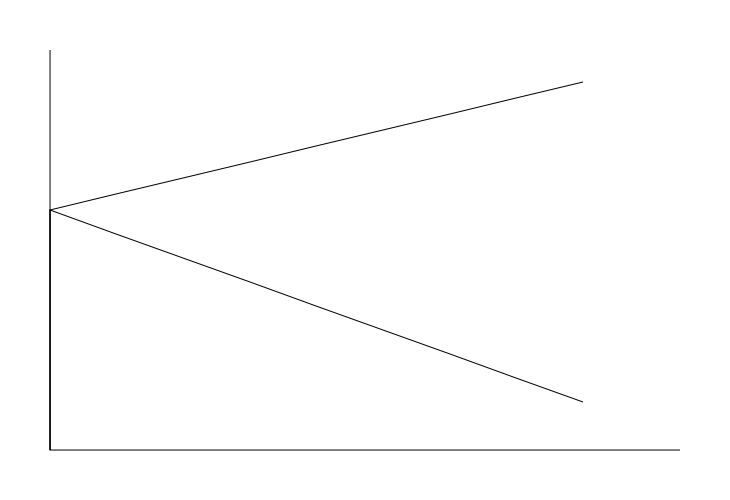
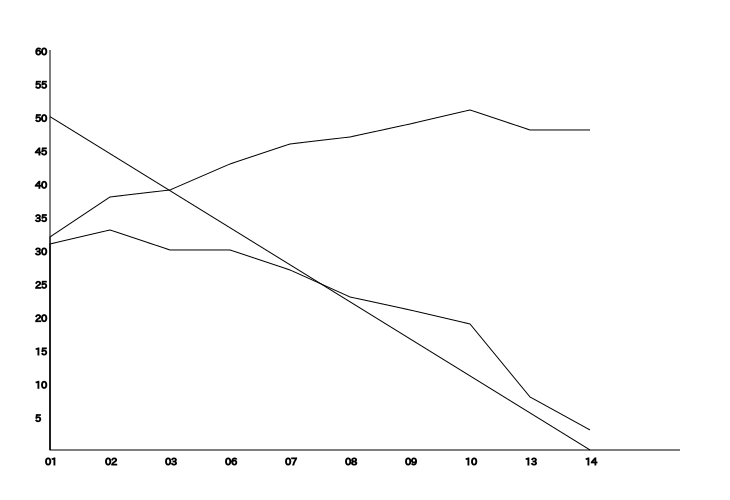
90percent

diff --git a/app.js b/app.js
@@ -10,12 +10,16 @@ var express = require('express')
   , schedule = require('node-schedule')
   , ircc    = require('irc')
   , un      = require('underscore')
+  , unstring = require('underscore.string')
+  , req     = require('request')
+  , htmlparser = require("htmlparser")
+  , jsdom = require('jsdom')
 //  , check  = require('./lib/check.js')
-
-var irc = new ircc.Client('irc.dollyfish.net.nz', 'myNick', {
-    channels: ['#blah']
+/*
+var irc = new ircc.Client('ant.rgk.ricoh.co.jp', 'yan_test', {
+    channels: ['#test_yan']
 });
-
+*/
 var app = module.exports = express.createServer();
 
 var mongoUri = 'http://127.0.0.1:27017/canvaspng';
@@ -48,13 +52,14 @@ var Schema = mongoose.Schema;
 var timelineschema = new Schema({
                          name : String
                        , max  : Number
-                       , date : String 
+                       , date : [String]
+                       , ms   : String
 });
 var everydaySchema = new Schema({
                          taskid: String
                        , total:  Number
                        , done:   Number
-                       , day:    Number
+                       , day:    String
 });
 Timeline = mongoose.model('Timeline', timelineschema);
 everyday = mongoose.model('Everyday', everydaySchema);
@@ -68,7 +73,8 @@ app.post('/newtask', function(req, res){
   var timeline = new Timeline();
   timeline.name = req.body.taskname;
   timeline.max  = req.body.max;
-  timeline.date = req.body.date;
+  timeline.date = req.body.date.split(",");
+  timeline.ms   = req.body.ms;
   timeline.save(function(err){
     if(!err) { 
       console.log("Success!");
@@ -77,62 +83,10 @@ app.post('/newtask', function(req, res){
     };
   });
 
- for(i=0;i<9;i++){
-    e = new everyday();
-    e.taskid = timeline._id;
-    e.total  = 30 + i*2;
-    e.done   = 30 - i*3;
-    e.day    = 5 + i;
-
-    e.save(function(err){
-      //if(!err) console.log("OK!");
-    });
-  }
-
-  everyday.find({taskid: timeline._id}, function(err, e){
-    var ary = un.sortBy(e, function(i){i.day});
-    
-    var canvas = new Canvas(730, 500)
-      , ctx = canvas.getContext('2d');
-
-    ctx.strokeStyle = 'rgba(0,0,0,5)';
-    ctx.beginPath();
-    ctx.lineTo(50, 50);
-    ctx.lineTo(50, 450);
-    ctx.lineTo(680, 450);
-    ctx.stroke();
-
-    ctx.beginPath();
-    ctx.lineTo(50,450);
-    var k = 0;
-    un.each(ary, function(i){
-      ctx.lineTo(50 + parseInt(k/9*600), 450 - parseInt(i.total/50*400));
-      k++;
-    });
-    ctx.stroke();
-
-    ctx.beginPath();
-    ctx.lineTo(50,450);
-    k = 0;
-    un.each(ary, function(i){
-      ctx.lineTo(50 + parseInt(k/9*600), 450 - parseInt(i.done/50*400));
-      k++;
-    });
-    ctx.stroke();
-
-    var fs = require('fs')
-    var out = fs.createWriteStream(__dirname + '/public/images/test.png')
-    var stream = canvas.createPNGStream();
-
-    stream.on('data', function(chunk){
-      out.write(chunk);
-    });
-  });
-
   res.redirect('/');
 });
 
-app.listen(3000);
+app.listen(3010);
 console.log("Express server listening on port %d in %s mode", app.address().port, app.settings.env);
 
 
@@ -141,10 +95,102 @@ console.log("Express server listening on port %d in %s mode", app.address().port
 var rule = new schedule.RecurrenceRule();
 rule.dayOfWeek = [0, new schedule.Range(1, 5)];
 rule.hour = 9;
-rule.minute = 15;
+rule.minute = 25;
 
-var j = schedule.scheduleJob(rule, function(){
-    console.log('Today is recognized by Rebecca Black!');
 
-  irc.say('#channel', 'timeline');
+
+
+//var j = schedule.scheduleJob(rule, function(){
+  console.log('Today is recognized by Rebecca Black!');
+
+  var date = new Date();
+  var today = date.getFullYear().toString() + ('00' + (date.getMonth()+1).toString()).slice(-2) + date.getDate().toString();
+  Timeline.find({date: {$all: [today]}}, function(err, d){
+    var timeline = d[0];
+    var tracurl = "http://quanp.cps.ricoh.co.jp/trac/quanp-world/query?status=accepted&status=approved&status=assigned&status=closed&status=implemented&status=new&status=pending&status=reopened&status=verified&group=status&order=priority&col=id&col=summary&col=status&col=version&col=blocking&milestone=%23" + timeline.ms
+
+    req(tracurl, function(err, res, body){
+      jsdom.env(body,
+            ['./jquery-1.5.min.js'],
+            function(errors, window) {
+              var s = window.$("h2").text();
+              var ary = unstring.lines(s);
+              var type = false;
+              var result = {closed:0, other:0};
+              for(i=0;i<ary.length;i++){
+                if ( ary[i].match(/closed/) ) {
+                  type = true;
+                } else if ( ary[i].match(/(\d+)/) && type ) {
+                  result.closed = Number(RegExp.$1);
+                  type = false;
+                } else if ( ary[i].match(/(\d+)/) ) {
+                  result.other = result.other + Number(RegExp.$1);
+                } else {
+                }
+              }
+              console.log(result);
+              everyday.update({"day":today}, {"total":result.closed+result.other, "done":result.closed}, function(err, a){
+                if (err) {
+                  console.log(err);
+                }
+              });
+      });
+    });
+
+    everyday.find({taskid: timeline._id}, function(err, e){
+      var ary = un.sortBy(e, function(i){i.day});
+      var max = Number(timeline.max) + 10;
+      var days = timeline.date.toString().split(",").length;
+      var horizontal = 400/max;
+      var vertical = 600/days;
+      var canvas = new Canvas(730, 500)
+        , ctx = canvas.getContext('2d');
+ 
+      ctx.strokeStyle = 'rgba(0,0,0,5)';
+      ctx.beginPath();
+      ctx.lineTo(50, 50);
+      ctx.lineTo(50, 450);
+      ctx.lineTo(680, 450);
+      ctx.stroke();
+
+      for(i=1;i<(parseInt(max/5)+1);i++){
+        ctx.strokeText(i*5, 35, 455-i*5*horizontal);
+      }
+      for(i=1;i<=days;i++){
+        ctx.strokeText(timeline.date.toString().split(",")[i-1].slice(-2), 45+vertical*(i-1), 465);
+      }
+
+      ctx.beginPath();
+      ctx.lineTo(50, 450 - parseInt(max - 10)*horizontal);
+      ctx.lineTo(50 + parseInt(vertical*(days-1)), 450);
+      ctx.stroke();
+
+      ctx.beginPath();
+      ctx.lineTo(50,450);
+      var k = 0;
+      un.each(ary, function(i){
+        ctx.lineTo(50 + parseInt(k*vertical), 450 - parseInt(i.total*horizontal));
+        k++;
+      });
+      ctx.stroke();
+
+      ctx.beginPath();
+      ctx.lineTo(50,450);
+      k = 0;
+      un.each(ary, function(i){
+        ctx.lineTo(50 + parseInt(k*vertical), 450 - parseInt((i.total - i.done)*horizontal));
+        k++;
+      });
+      ctx.stroke();
+  
+      var fs = require('fs')
+      var out = fs.createWriteStream(__dirname + '/public/images/' + timeline.ms + 'test.png')
+      var stream = canvas.createPNGStream();
+  
+      stream.on('data', function(chunk){
+        out.write(chunk);
+      });
+    });
+//  })
+// irc.say('#channel', 'timeline');
 });
